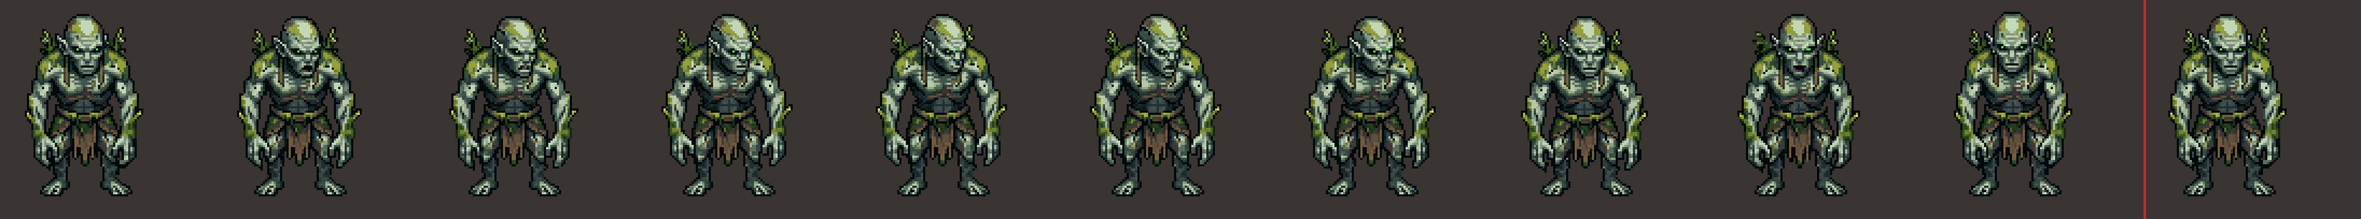
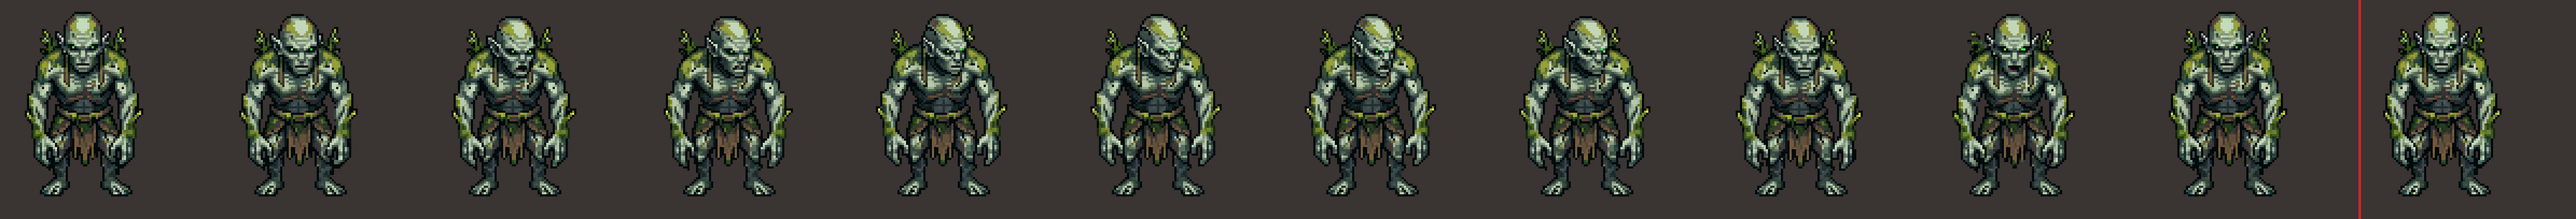
Vida parada: quadro 0 dos tiques do carnical (faltava) e rajada de capa do dullahan
O instalador nao copiava o quadro 0 dos tiques; corrigido. A geracao de idle do
dullahan abria a capa ate a largura toda a cada ciclo (demais para loop), entao
virou o tique fidget_gust (14 quadros pinados); o idle antigo de 12 fica.

diff --git a/tools/pixellab_vida_c.py b/tools/pixellab_vida_c.py
@@ -312,6 +312,8 @@ def clip_dir(eid, clip):
 
 def install(eid, clip, n, fix=None):
     d = os.path.join(TRIES, f"{eid}_{clip}_t{n}")
+    if fix and fix.get("as"):
+        clip = fix["as"]
     files = sorted([x for x in os.listdir(d) if x.endswith(".png")], key=lambda s: int(s[:-4]))
     src = [os.path.join(d, x) for x in files]
     seq = src[:-1] if clip == "idle" else src
@@ -347,7 +349,7 @@ def install(eid, clip, n, fix=None):
         if x.endswith(".png") and x != "0.png":
             os.remove(os.path.join(dest, x))
     for x in os.listdir(tmp):
-        if x != "0.png":
+        if x != "0.png" or clip != "idle":
             shutil.copyfile(os.path.join(tmp, x), os.path.join(dest, x))
     shutil.rmtree(tmp)
     final_strip(eid, clip)
